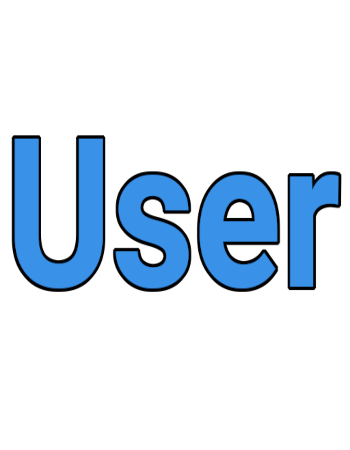
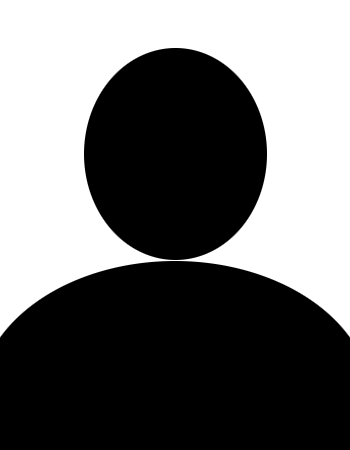
feat: Added API for user images

diff --git a/src/db/user.rs b/src/db/user.rs
@@ -182,6 +182,22 @@ pub fn user_detailed(conn: &mut PooledConn, user_id: u64) -> Result<User> {
     Ok(user)
 }
 
+pub fn user_image(conn: &mut PooledConn, user_id: u64) -> Result<Option<String>> {
+    let stmt = conn.prep(
+        "SELECT
+            image_url
+        FROM users
+        WHERE user_id = :user_id;",
+    )?;
+
+    let params = params! {
+        "user_id" => &user_id,
+    };
+
+    let image_url: Option<Option<String>> = conn.exec_first::<Option<String>, _, _>(&stmt, &params)?;
+    Ok(image_url.unwrap())
+}
+
 pub fn user_create(conn: &mut PooledConn, user: &mut User) -> Result<u64> {
     user.key = match crate::common::check_user_key(&user.key) {
         Err(_) => Some(crate::common::random_string(6)),

diff --git a/src/route/regular/user.rs b/src/route/regular/user.rs
@@ -50,3 +50,16 @@ pub fn user_list(_session: UserSession) -> Result<Json<Vec<User>>> {
     let users = crate::db::user::user_list(conn, Some(true))?;
     Ok(Json(users))
 }
+
+#[rocket::get("/regular/user_image?<user_id>")]
+pub fn user_image(user_id: u64) -> Result<Vec<u8>> {
+    let conn = &mut crate::utils::db::get_db_conn()?;
+    let image_url = crate::db::user::user_image(conn, user_id)?;
+
+    let full_path = match image_url {
+        None => crate::fs::get_resources_path().join("user_image_placeholder.png"),
+        Some(url) => crate::fs::get_data_path().join(&format!("users/{}", url)),
+    };
+
+    std::fs::read(full_path).map_err(|_| Error::new(ErrorKind::Filesystem, "Failed to read user image"))
+}

diff --git a/src/main.rs b/src/main.rs
@@ -143,6 +143,7 @@ fn rocket() -> _ {
                 route::regular::user::user_password_info,
                 route::regular::user::user_password_set,
                 route::regular::user::user_list,
+                route::regular::user::user_image,
                 route::admin::club::club_list,
                 route::admin::club::club_info,
                 route::admin::club::club_create,
